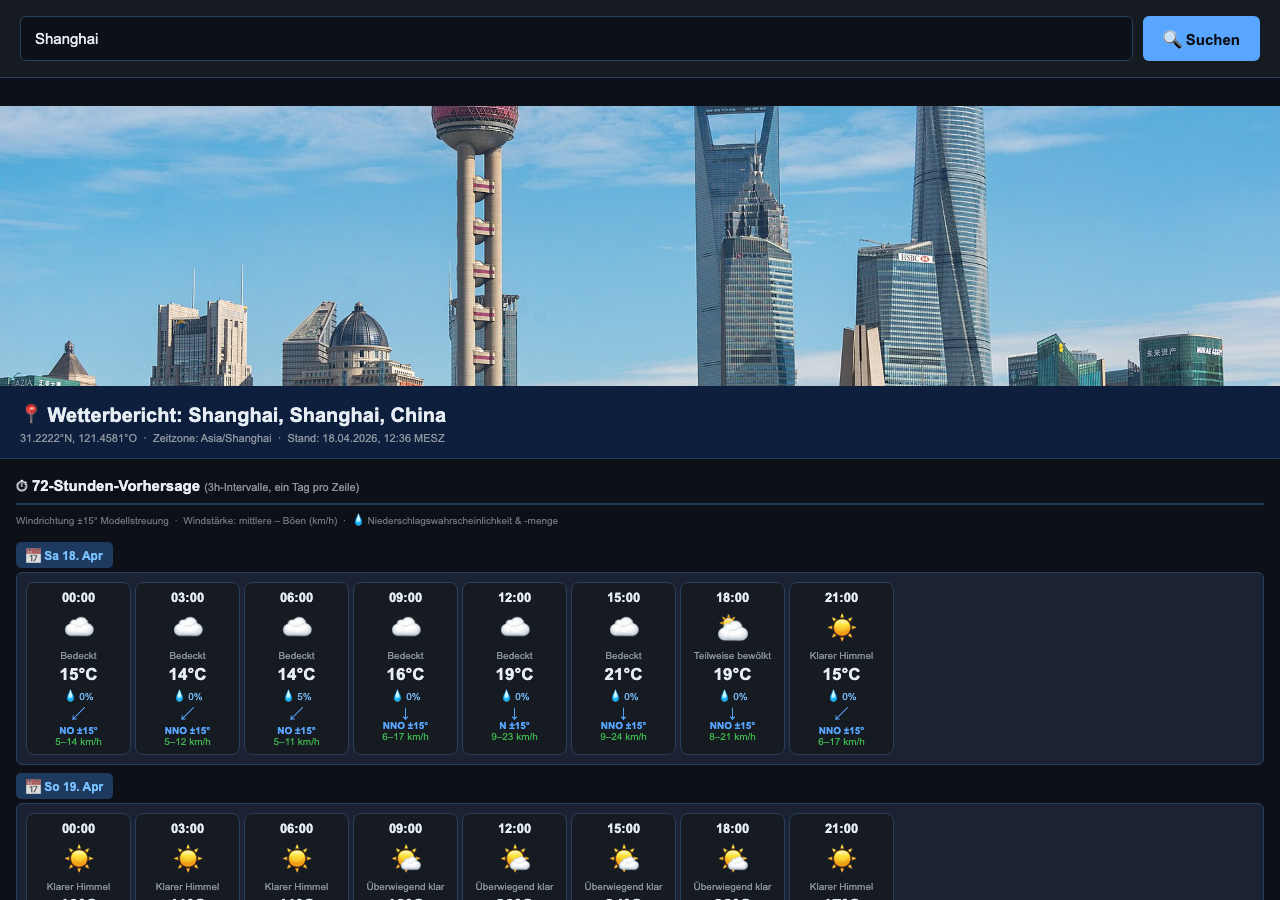
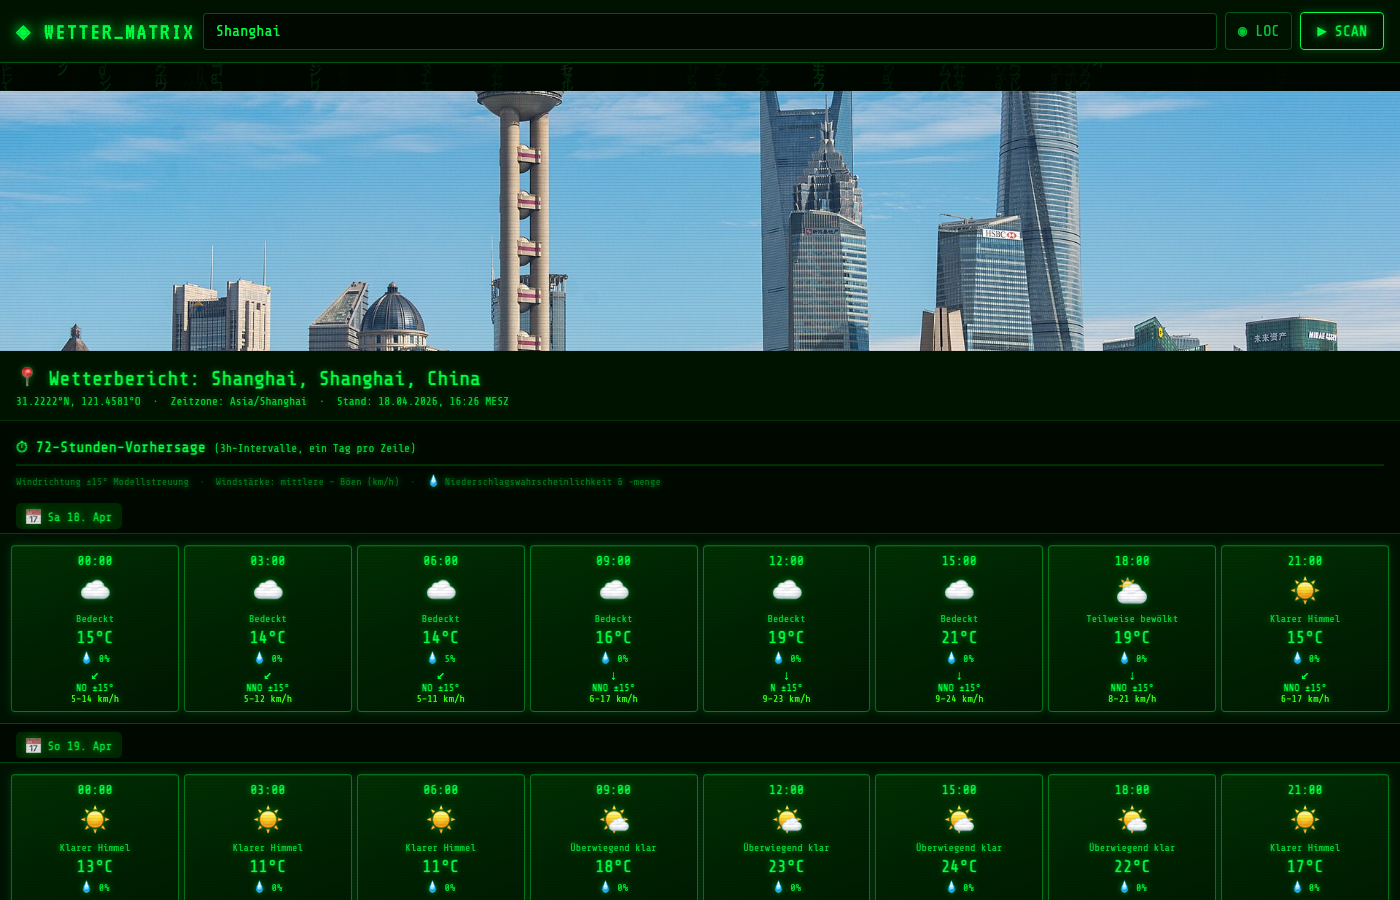
Apply Matrix/70s sci-fi theme to wetter.html
- Replace colour palette with neon green on near-black (#000900)
- Add animated Matrix rain canvas background
- Add CRT scanline overlay via body::after pseudo-element
- Switch fonts to Share Tech Mono + VT323 (Google Fonts)
- Restyle cards, buttons, and search bar with terminal glow effects
- Remove light/dark theme toggle; Matrix is the only theme
- Update screenshot to reflect new design

diff --git a/wetter.html b/wetter.html
@@ -24,40 +24,41 @@
   <meta name="twitter:title" content="Wetterbericht – 72h & 14-Tage-Vorhersage">
   <meta name="twitter:description" content="Kostenlose Wettervorhersage für jeden Ort weltweit – 72h und 14 Tage Prognose.">
   <meta name="twitter:image" content="https://helmutqualtinger.github.io/WetterVorschau/Rebstein-Panormam.jpg">
+
+  <link rel="preconnect" href="https://fonts.googleapis.com">
+  <link rel="preconnect" href="https://fonts.gstatic.com" crossorigin>
+  <link href="https://fonts.googleapis.com/css2?family=Share+Tech+Mono&family=VT323&display=swap" rel="stylesheet">
+
   <style>
-    /* ── Dark theme (default) ───────────────────────────────────────── */
+    /* ── Matrix / 70s Sci-Fi ─────────────────────────────────────────── */
     :root {
-      --page:   #0d1117; --row:    #1a2233;
-      --header: #1e3a5f; --title:  #0d1f3c; --border: #2a3f5a;
-      --divid:  #1e3a5f; --pri:    #e6edf3; --sec:    #8b949e;
-      --min:    #6e7681; --accent: #58a6ff; --green:  #3fb950;
-      --pill:   #79c0ff; --banner: #060d18;
-      --searchbar-bg: #161b22;
-      --glass-bg: linear-gradient(145deg, rgba(255,255,255,0.10) 0%, rgba(255,255,255,0.04) 100%);
-      --glass-border: rgba(255,255,255,0.18);
-      --glass-shadow: 0 2px 8px rgba(0,0,0,0.40), inset 0 1px 0 rgba(255,255,255,0.15);
-      --glass-shadow-hover: 0 6px 18px rgba(0,0,0,0.55), inset 0 1px 0 rgba(255,255,255,0.20);
-      --scroll-bg: rgba(255,255,255,0.04);
-      --scroll-border: rgba(255,255,255,0.10);
+      --page:          #000900;
+      --row:           #001400;
+      --header:        #002800;
+      --title:         #001200;
+      --border:        rgba(0,255,65,0.30);
+      --divid:         #003300;
+      --pri:           #00ff41;
+      --sec:           #00cc33;
+      --min:           #007a1f;
+      --accent:        #00ff41;
+      --green:         #39ff14;
+      --pill:          #00e536;
+      --banner:        #000900;
+      --searchbar-bg:  #001200;
+
+      --card-bg:       linear-gradient(160deg,rgba(0,80,0,0.45) 0%,rgba(0,30,0,0.30) 100%);
+      --card-border:   rgba(0,255,65,0.38);
+      --card-shadow:   0 0 8px rgba(0,255,65,0.18), inset 0 1px 0 rgba(0,255,65,0.12);
+      --card-shadow-hover: 0 0 28px rgba(0,255,65,0.60), inset 0 1px 0 rgba(0,255,65,0.30);
+
+      --scroll-bg:     rgba(0,255,65,0.04);
+      --scroll-border: rgba(0,255,65,0.22);
+
       --banner-h: 260px;
       --card-w: 105px; --card-fs: 12px; --card-icon: 30px;
       --card-temp: 17px; --card-pad: 7px 5px;
       --section-pad: 18px 16px 10px;
-    }
-    /* ── Light theme ────────────────────────────────────────────────── */
-    [data-theme="light"] {
-      --page:   #ddeeff; --row:    #c8dff5;
-      --header: #a8c8e8; --title:  #1a6fc4; --border: rgba(0,80,160,0.25);
-      --divid:  #90b8d8; --pri:    #0d1a2a; --sec:    #3a5570;
-      --min:    #5577aa; --accent: #0550ae; --green:  #1a7f37;
-      --pill:   #0969da; --banner: #b0ccee;
-      --searchbar-bg: #c0d8f0;
-      --glass-bg: linear-gradient(145deg, rgba(255,255,255,0.65) 0%, rgba(255,255,255,0.35) 100%);
-      --glass-border: rgba(255,255,255,0.80);
-      --glass-shadow: 0 2px 8px rgba(0,60,120,0.18), inset 0 1px 0 rgba(255,255,255,0.90);
-      --glass-shadow-hover: 0 6px 18px rgba(0,60,120,0.28), inset 0 1px 0 rgba(255,255,255,0.95);
-      --scroll-bg: rgba(0,80,160,0.07);
-      --scroll-border: rgba(0,80,160,0.18);
     }
     @media (max-width: 600px) {
       :root {
@@ -77,43 +78,58 @@
     }
 
     * { box-sizing: border-box; }
-    body { margin:0; padding:0; background:var(--page); font-family:Arial,Helvetica,sans-serif; color:var(--pri); transition:background .3s, color .3s; }
+    body {
+      margin:0; padding:0; background:var(--page);
+      font-family:'Share Tech Mono','Courier New',monospace;
+      color:var(--pri);
+      text-shadow:0 0 6px rgba(0,255,65,0.45);
+    }
+    body::after {
+      content:''; position:fixed; inset:0; pointer-events:none; z-index:9999;
+      background:repeating-linear-gradient(
+        0deg,
+        rgba(0,0,0,0.06) 0px, rgba(0,0,0,0.06) 1px,
+        transparent 1px, transparent 3px
+      );
+    }
+    #matrix-rain { position:fixed; top:0; left:0; width:100%; height:100%; z-index:-1; opacity:0.15; pointer-events:none; }
 
     #search-bar {
-      display:flex; gap:8px; padding:12px 16px;
+      display:flex; gap:8px; padding:12px 16px; align-items:center;
       background:var(--searchbar-bg); border-bottom:1px solid var(--border);
       position:sticky; top:0; z-index:100; flex-wrap:wrap;
-      transition: background .3s;
+    }
+    #app-title {
+      font-family:'VT323',monospace; font-size:clamp(18px,5vw,24px);
+      color:var(--pri); letter-spacing:2px; white-space:nowrap;
+      text-shadow:0 0 12px rgba(0,255,65,0.9), 0 0 30px rgba(0,255,65,0.4);
+      flex-shrink:0;
     }
     #location-input {
       flex:1; min-width:0; padding:9px 12px; background:var(--page);
-      border:1px solid var(--border); border-radius:6px;
+      border:1px solid var(--border); border-radius:4px;
       color:var(--pri); font-size:clamp(13px,3.5vw,15px);
+      font-family:inherit; caret-color:var(--accent);
     }
-    #location-input:focus { outline:none; border-color:var(--accent); }
+    #location-input::placeholder { color:var(--min); }
+    #location-input:focus { outline:none; border-color:var(--accent); box-shadow:0 0 10px rgba(0,255,65,0.35); }
     #search-btn {
-      padding:9px 16px; background:var(--accent); border:none;
-      border-radius:6px; color:var(--page); font-weight:bold;
+      padding:9px 16px; background:transparent; border:1px solid var(--accent);
+      border-radius:4px; color:var(--accent); font-weight:bold;
       cursor:pointer; font-size:clamp(13px,3.5vw,15px); white-space:nowrap;
-      touch-action:manipulation;
+      touch-action:manipulation; font-family:inherit;
+      text-shadow:0 0 8px rgba(0,255,65,0.8);
+      box-shadow:0 0 8px rgba(0,255,65,0.25);
     }
-    #search-btn:hover { background:var(--pill); }
-    #search-btn:disabled { background:var(--border); color:var(--min); cursor:default; }
+    #search-btn:hover { background:rgba(0,255,65,0.12); box-shadow:0 0 18px rgba(0,255,65,0.55); }
+    #search-btn:disabled { border-color:var(--min); color:var(--min); box-shadow:none; cursor:default; }
     #locate-btn {
-      padding:9px 12px; background:var(--header); border:1px solid var(--border);
-      border-radius:6px; color:var(--pri); cursor:pointer;
+      padding:9px 12px; background:transparent; border:1px solid var(--border);
+      border-radius:4px; color:var(--sec); cursor:pointer;
       font-size:clamp(13px,3.5vw,15px); white-space:nowrap;
-      touch-action:manipulation;
+      touch-action:manipulation; font-family:inherit;
     }
-    #locate-btn:hover { background:var(--divid); }
-    #theme-btn {
-      padding:9px 12px; background:transparent;
-      border:1px solid var(--border); border-radius:6px;
-      color:var(--pri); cursor:pointer; font-size:16px;
-      line-height:1; touch-action:manipulation;
-      transition:border-color .2s, color .2s;
-    }
-    #theme-btn:hover { border-color:var(--accent); color:var(--accent); }
+    #locate-btn:hover { border-color:var(--accent); color:var(--accent); }
     #status { padding:16px 16px 0; color:var(--sec); font-size:14px; min-height:2em; }
 
     /* ── Report layout ─────────────────────────────────────────────── */
@@ -129,8 +145,9 @@
     .w-banner-fallback {
       width:100%; height:var(--banner-h);
       display:flex; align-items:center; justify-content:center;
-      background:linear-gradient(135deg,#0d1f3c 0%,#1a3a6b 60%,#0d2a4a 100%);
+      background:linear-gradient(135deg,#000900 0%,#003300 60%,#001200 100%);
       font-size:clamp(16px,5vw,22px); font-weight:bold; color:var(--pri);
+      font-family:'VT323',monospace; letter-spacing:3px;
     }
     .w-titlebar {
       background:var(--title); padding:12px 16px;
@@ -178,21 +195,19 @@
       border-collapse:separate; border-spacing:5px; width:100%; min-width:max-content;
     }
 
-    /* ── Cards — glassmorphism ─────────────────────────────────────── */
+    /* ── Cards — terminal style ───────────────────────────────────── */
     .wc {
       padding:var(--card-pad); text-align:center; vertical-align:top;
       min-width:var(--card-w); font-size:var(--card-fs); white-space:normal;
-      border-radius:12px;
-      background:var(--glass-bg);
-      border:1px solid var(--glass-border);
-      backdrop-filter:blur(12px) saturate(160%);
-      -webkit-backdrop-filter:blur(12px) saturate(160%);
-      box-shadow:var(--glass-shadow);
-      transition: transform .15s ease, box-shadow .15s ease, background .3s;
+      border-radius:4px;
+      background:var(--card-bg);
+      border:1px solid var(--card-border);
+      box-shadow:var(--card-shadow);
+      transition: transform .15s ease, box-shadow .15s ease;
     }
     .wc:hover {
       transform:translateY(-2px);
-      box-shadow:var(--glass-shadow-hover);
+      box-shadow:var(--card-shadow-hover);
     }
     .wc-time  { color:var(--pri); font-size:calc(var(--card-fs) + 1px); font-weight:bold; }
     .wc-date  { color:var(--pri); font-size:calc(var(--card-fs) - 1px); font-weight:bold; }
@@ -208,20 +223,20 @@
 </head>
 <body>
 
+<canvas id="matrix-rain"></canvas>
 <div id="search-bar">
+  <span id="app-title">◈ WETTER_MATRIX</span>
   <input id="location-input" type="text" placeholder="Ort – z.B. München, Wien, Zürich …" autocomplete="off" />
-  <button id="locate-btn" onclick="autoDetectLocation()" title="Meinen Standort verwenden">📍</button>
-  <button id="search-btn" onclick="startSearch()">🔍 Suchen</button>
-  <button id="theme-btn" onclick="toggleTheme()" title="Hell/Dunkel wechseln">🌙</button>
+  <button id="locate-btn" onclick="autoDetectLocation()" title="Meinen Standort verwenden">◉ LOC</button>
+  <button id="search-btn" onclick="startSearch()">▶ SCAN</button>
 </div>
 <div id="status"></div>
 <div id="report"></div>
 
 <script>
-// Colors referenced only for the gradient fallback banner (CSS vars cover the rest)
 const C = {
-  pri: "#e6edf3", sec: "#8b949e", min: "#6e7681",
-  accent: "#58a6ff", green: "#3fb950", pill: "#79c0ff",
+  pri: "#00ff41", sec: "#00cc33", min: "#007a1f",
+  accent: "#00ff41", green: "#39ff14", pill: "#00e536",
 };
 // Banner height mirrors the CSS --banner-h variable, responsive
 
@@ -585,20 +600,34 @@ document.getElementById("location-input").addEventListener("keydown", e => {
   if (e.key === "Enter") startSearch();
 });
 
-// ── Theme toggle ─────────────────────────────────────────────────────────────
-function applyTheme(theme) {
-  document.documentElement.dataset.theme = theme;
-  document.getElementById("theme-btn").textContent = theme === "light" ? "🌙" : "☀";
-}
-function toggleTheme() {
-  const next = document.documentElement.dataset.theme === "light" ? "dark" : "light";
-  localStorage.setItem("wetter-theme", next);
-  applyTheme(next);
-}
+// ── Matrix rain ───────────────────────────────────────────────────────────────
 (function () {
-  const saved = localStorage.getItem("wetter-theme")
-    || (window.matchMedia("(prefers-color-scheme: light)").matches ? "light" : "dark");
-  applyTheme(saved);
+  const canvas = document.getElementById("matrix-rain");
+  const ctx    = canvas.getContext("2d");
+  const CHARS  = "アイウエオカキクケコサシスセソタナニヌネノハヒフヘホマミムメモヤユヨラリルレロワヲン01アイウエオカキクケコサシスセソタナニヌネノハヒフヘホマミムメモヤユヨラリルレロワヲン234567890ABCDEF";
+  const FS     = 14;
+  let   drops  = [];
+
+  function resize() {
+    canvas.width  = window.innerWidth;
+    canvas.height = window.innerHeight;
+    drops = Array.from({ length: Math.floor(canvas.width / FS) }, () => Math.random() * -80);
+  }
+  resize();
+  window.addEventListener("resize", resize);
+
+  setInterval(() => {
+    ctx.fillStyle = "rgba(0,9,0,0.055)";
+    ctx.fillRect(0, 0, canvas.width, canvas.height);
+    ctx.font = `${FS}px monospace`;
+    drops.forEach((y, i) => {
+      const bright = Math.random() > 0.92;
+      ctx.fillStyle = bright ? "#aaffbb" : "#00ff41";
+      ctx.fillText(CHARS[Math.floor(Math.random() * CHARS.length)], i * FS, y * FS);
+      if (y * FS > canvas.height && Math.random() > 0.975) drops[i] = 0;
+      drops[i] += 0.6;
+    });
+  }, 45);
 })();
 
 // ── Auto-start: browser geolocation → reverse geocode, fallback to Shanghai ──
